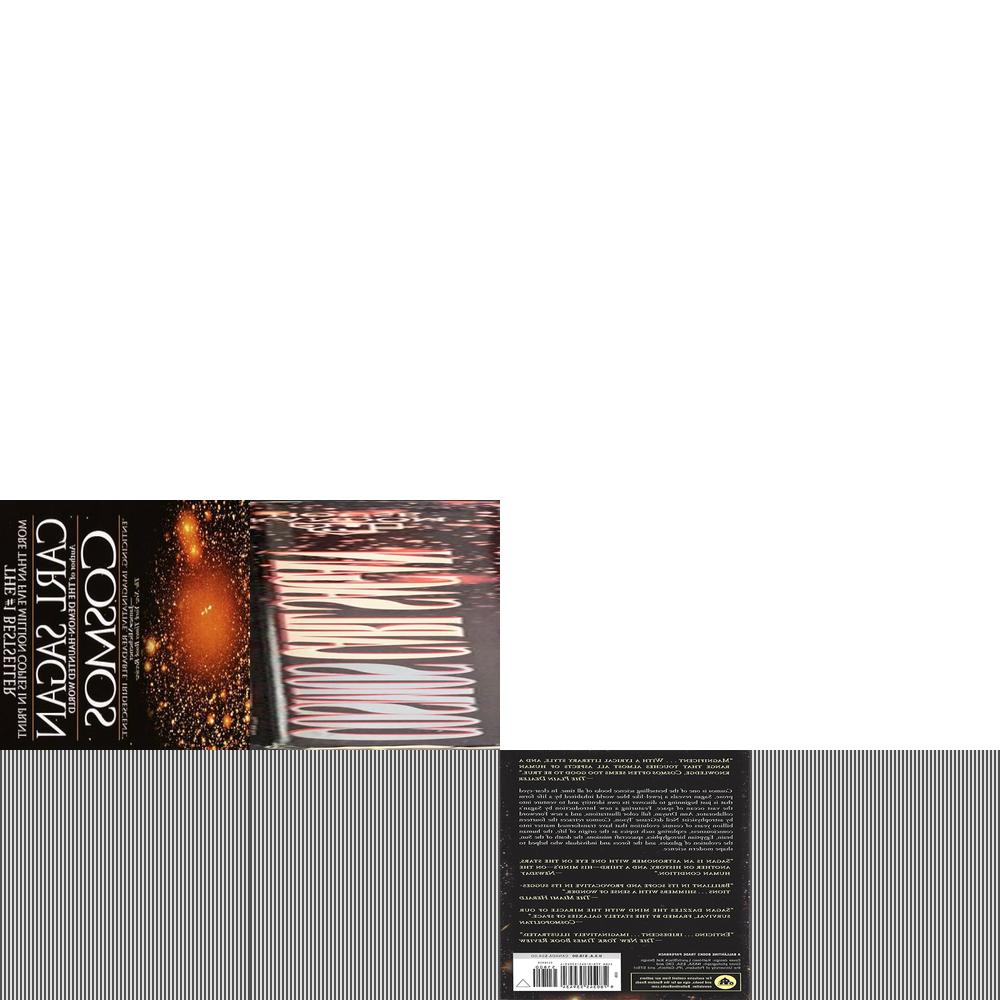
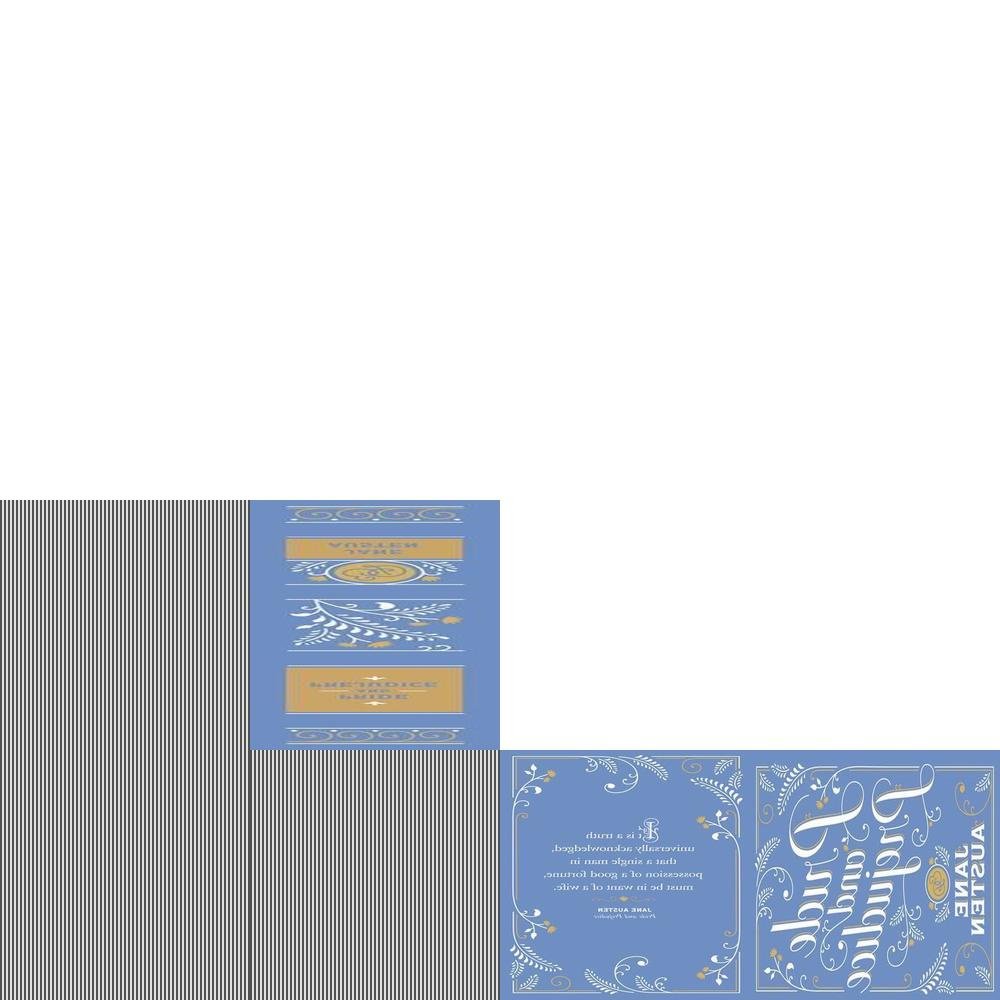
wip

Changed region(s): [[0.0, 0.496, 1.0, 1.0]]

diff --git a/prbench/src/prbench/envs/geom3d/shelf3d.py b/prbench/src/prbench/envs/geom3d/shelf3d.py
@@ -77,7 +77,7 @@ class Shelf3DEnvConfig(Geom3DEnvConfig, metaclass=FinalConfigMeta):
     def get_cube_texture(self, idx: int) -> Path:
         """Get a texture to wrap a cube given the index."""
         asset_dir = Path(__file__).parent / "assets"
-        texture_filenames = [f"book{i}.jpg" for i in range(8)]
+        texture_filenames = [f"book{i}.jpg" for i in range(5)]
         texture_filename = texture_filenames[idx % len(texture_filenames)]
         return asset_dir / texture_filename
 

diff --git a/prbench/tests/envs/geom3d/test_shelf3d.py b/prbench/tests/envs/geom3d/test_shelf3d.py
@@ -31,7 +31,7 @@ def env():
     """Create a shared environment for all tests in this module."""
     environment = Shelf3DEnv(
         num_cubes=2,
-        use_gui=True,
+        use_gui=False,
         render_mode="rgb_array",
         realistic_bg=True,
     )
